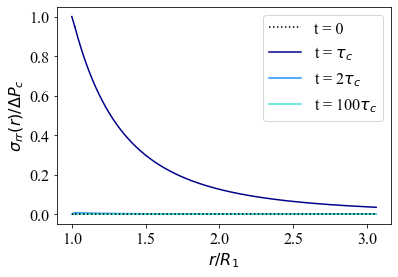
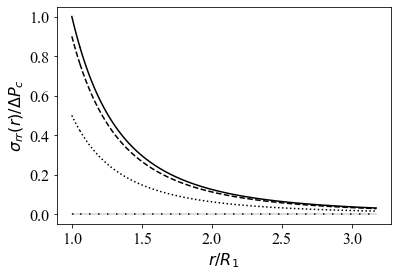
Plot Style
Changed the style of plots of u and sigmas. Now they are plotted at 5 different times including 0 and tau_c

diff --git a/graphical_outputs_definitions.py b/graphical_outputs_definitions.py
@@ -11,6 +11,7 @@ import matplotlib.pyplot as plt
 from matplotlib.colors import LogNorm
 from pylab import savefig
 import os
+from math import floor, log10
 
 
 import reservoir_definitions as rd
@@ -55,6 +56,24 @@ def savePDF2(path, name):
     os.chdir(newpath)
     savefig(name, bbox_inches='tight')
     os.chdir("../../")
+    
+# Define function for string formatting of scientific notation
+def sci_notation(num, decimal_digits=1, precision=None, exponent=None):
+    """
+    Returns a string representation of the scientific
+    notation of the given number formatted for use with
+    LaTeX or Mathtext, with specified number of significant
+    decimal digits and precision (number of decimal digits
+    to show). The exponent to be used can also be specified
+    explicitly.
+    """
+    if exponent is None:
+        exponent = int(floor(log10(abs(num))))
+    coeff = round(num / float(10**exponent), decimal_digits)
+    if precision is None:
+        precision = decimal_digits
+
+    return r"${0:.{2}f}\cdot10^{{{1:d}}}$".format(coeff, exponent, precision)
 
 
 #---------------------------------------------------------------------
@@ -86,12 +105,12 @@ def plotGraph1(t_c, p_c, R1, R2, RES, PC):
         
         # times at which we sample the stress/deformation fields for
         # graphical outputs
-        tFix_0 = 0
         tFix_1 = t_c
-        tFix_2 = t_c*2
-        tFix_inf = t_c*100
+        tFix_2 = t_c*1.11
+        tFix_3 = t_c*1.15
+        tFix_4 = t_c*1.2
 
-        time_list = [tFix_0, tFix_1, tFix_2, tFix_inf]
+        time_list = [tFix_1, tFix_2, tFix_3, tFix_4]
      
         # dictionnaries to store the valutes at each time
         u1 = {}
@@ -132,25 +151,27 @@ def plotGraph1(t_c, p_c, R1, R2, RES, PC):
                 sigma2_rr_val[time][i] = sigma2_rr[time].subs(r,r2_val[i])
                 sigma2_tt_val[time][i] = sigma2_tt[time].subs(r,r2_val[i])
        
-        #blue set
-        color_list = ['k:', 'darkblue', 'dodgerblue', 'turquoise']
-        #red set
-        #color_list = ['k:', 'saddlebrown', 'orangered', 'orange']
-        legend_list = ['t = 0', r't = $\tau_c$', r't = 2$\tau_c$', r't = 100$\tau_c$']
+        color_list = ['k', 'k', 'k', 'k']
+        linestylelist = ['solid', 'dashed', 'dotted', (0, (1, 5))]
+        
+        legend1 = r't = $\tau_c$ = ' + sci_notation(RES.t_c,1) + ' s'
+        legend2 = r't = 1.11*$\tau_c$ = ' + sci_notation(1.11*RES.t_c,1) + ' s'
+        legend3 = r't = 1.15*$\tau_c$ = ' + sci_notation(1.15*RES.t_c,1) + ' s'
+        legend4 = r't = 1.2*$\tau_c$ = ' + sci_notation(1.2*RES.t_c,1) + ' s'
+        legend_list = [legend1, legend2, legend3, legend4]
         
         # Graph of u(r,t)
         initGraph()
-        for (time, color, legend) in zip(time_list,color_list, legend_list) :
-            plt.plot(r1_val/R1, u1_val[time], color, label = legend)
-            if RES.isElastic == 1:
-                plt.plot(r2_val/R1, u2_val[time], color)
-        plt.plot(r1_val/R1, np.zeros(len(r1_val)), 'k:')
+        plt.plot(r1_val/R1, np.zeros(len(r1_val)), 'lightgrey', label = 't = 0')
         if RES.isElastic == 1:
-            plt.plot(r2_val/R1, np.zeros(len(r2_val)), 'k:')
-        plt.legend()
+            plt.plot(r2_val/R1, np.zeros(len(r2_val)), 'lightgrey')
+        for (time, color, linestyle, legend) in zip(time_list, color_list, linestylelist, legend_list) :
+            plt.plot(r1_val/R1, u1_val[time], color, linestyle=linestyle, label = legend)
+            if RES.isElastic == 1:
+                plt.plot(r2_val/R1, u2_val[time], color, linestyle=linestyle)
         plt.xlabel('$r/R_1$')
         plt.ylabel('$u(r)$ (m)')
-        plt.legend(loc='upper right')
+        plt.legend(loc='center left', bbox_to_anchor=(1, 0.5))
         #plt.xlim((1,4))
         #plt.ylim((0,60))
         if PC.save1 == 1:
@@ -159,17 +180,16 @@ def plotGraph1(t_c, p_c, R1, R2, RES, PC):
          
         # Graph of sigma_rr(r,t)
         initGraph()
-        for (time, color, legend) in zip(time_list,color_list, legend_list) :
-            plt.plot(r1_val/R1, abs(sigma1_rr_val[time])/p_c, color, label = legend)
-            if RES.isElastic == 1:
-                plt.plot(r2_val/R1, abs(sigma2_rr_val[time])/p_c, color)
-        plt.plot(r1_val/R1, np.zeros(len(r1_val)), 'k:')
+        plt.plot(r1_val/R1, np.zeros(len(r1_val)), 'lightgrey', label = 't = 0')
         if RES.isElastic == 1:
-            plt.plot(r2_val/R1, np.zeros(len(r2_val)), 'k:')
-        plt.legend()
+            plt.plot(r2_val/R1, np.zeros(len(r2_val)), 'lightgrey')
+        for (time, color, linestyle, legend) in zip(time_list, color_list, linestylelist, legend_list) :
+            plt.plot(r1_val/R1, abs(sigma1_rr_val[time])/p_c, color, linestyle=linestyle, label = legend)
+            if RES.isElastic == 1:
+                plt.plot(r2_val/R1, abs(sigma2_rr_val[time])/p_c, color, linestyle=linestyle)
         plt.xlabel('$r/R_1$')
         plt.ylabel(r'$\sigma_{rr}(r)/\Delta P_c$')
-        plt.legend(loc='upper right')
+        #plt.legend(loc='upper right')
         #plt.xlim((1,4))
         #plt.ylim((0,1.01))
         if PC.save1 == 1:
@@ -178,17 +198,16 @@ def plotGraph1(t_c, p_c, R1, R2, RES, PC):
        
         # Graph of sigma_tt(r,t) = sigma_pp(r,t)
         initGraph()
-        for (time, color, legend) in zip(time_list,color_list, legend_list) :
-            plt.plot(r1_val/R1, (sigma1_tt_val[time])/p_c, color, label = legend)
-            if RES.isElastic == 1:
-                plt.plot(r2_val/R1, (sigma2_tt_val[time])/p_c, color)
-        plt.plot(r1_val/R1, np.zeros(len(r1_val)), 'k:')
+        plt.plot(r1_val/R1, np.zeros(len(r1_val)), 'lightgrey', label = 't = 0')
         if RES.isElastic == 1:
-            plt.plot(r2_val/R1, np.zeros(len(r2_val)), 'k:')
-        plt.legend()
+            plt.plot(r2_val/R1, np.zeros(len(r2_val)), 'lightgrey')
+        for (time, color, linestyle, legend) in zip(time_list, color_list, linestylelist, legend_list) :
+            plt.plot(r1_val/R1, (sigma1_tt_val[time])/p_c, color, linestyle=linestyle, label = legend)
+            if RES.isElastic == 1:
+                plt.plot(r2_val/R1, (sigma2_tt_val[time])/p_c, color, linestyle=linestyle)
         plt.xlabel('$r/R_1$')
         plt.ylabel(r'$\sigma_{\theta\theta}(r)/\Delta P_c$ = $\sigma_{\phi\phi}(r)/\Delta P_c$')
-        plt.legend(loc='upper right')
+        #plt.legend(loc='upper right')
         #plt.xlim((1,4))
         #plt.ylim((-1.01,0.55))
         if PC.save1 == 1:
@@ -359,7 +378,7 @@ def plotGraph4(OUT, PC):
         ax.set_xscale('log')
         background = plt.pcolormesh(x, y, VeFix, cmap='RdYlBu_r', norm=LogNorm(vmin = 1e3, vmax = 1e10), shading='gouraud')
         contour_dashed = plt.contour(x, y, VeFix, norm=LogNorm(), colors='black', linestyles='dashed')
-        plt.clabel(contour_dashed, inline=True, fontsize=14, fmt= '%.2f')
+        plt.clabel(contour_dashed, inline=True, fontsize=14, fmt='%.1e')
         cbar=plt.colorbar(background)
         cbar.set_label(r"$V_{e}$ (m$^3$)", labelpad=-40, y=1.1, rotation=0)
         plt.title(u"(a) Erupted volume \n with fix wall")
@@ -376,7 +395,7 @@ def plotGraph4(OUT, PC):
         #plt.gca().invert_yaxis()
         background = plt.pcolormesh(x, y, VeFixFilter, cmap='RdYlBu_r', norm=LogNorm(vmin = 1e3, vmax = 1e10), shading='gouraud')
         contour_dashed = plt.contour(x, y, VeFixFilter, norm=LogNorm(), colors='black', linestyles='dashed')
-        plt.clabel(contour_dashed, inline=True, fontsize=14, fmt= '%.2f')
+        plt.clabel(contour_dashed, inline=True, fontsize=14, fmt='%.1e')
         cbar=plt.colorbar(background)
         cbar.set_label(r"$V_{e}$ (m$^3$)", labelpad=-40, y=1.1, rotation=0)
         plt.title(u"(b) Erupted volume with \n fix wall and viscoelastic filter")
@@ -394,7 +413,7 @@ def plotGraph4(OUT, PC):
         #plt.gca().invert_yaxis()
         background = plt.pcolormesh(x, y, VeDeform, cmap='RdYlBu_r', norm=LogNorm(vmin = 1e3, vmax = 1e10), shading='gouraud')
         contour_dashed = plt.contour(x, y, VeDeform, norm=LogNorm(), colors='black', linestyles='dashed')
-        plt.clabel(contour_dashed, inline=True, fontsize=14, fmt= '%.2f')
+        plt.clabel(contour_dashed, inline=True, fontsize=14, fmt='%.1e')
         cbar=plt.colorbar(background)
         cbar.set_label(r"$V_{ev}$ (m$^3$)", labelpad=-40, y=1.1, rotation=0)
         plt.title(u"(c) Erupted volume \n with viscoelastic deformation")

diff --git a/reservoir_main.py b/reservoir_main.py
@@ -20,14 +20,14 @@ import numpy as np
 # Choose between pure water or briny cryomagma and ice:
 # If you take into account impurities such as salts in the cryomagma and 
 # ices, select 1. If you consider pure water, select 0.
-salts = 0
+salts = 1
 
 # reservoir radius (m)
 # radius = 1905.46071796
-radius = 10e3
+radius = 500
 
 # reservoir depth (m) (< 5500m to stay in the elastic zone)
-depth = 10000
+depth = 2000
 
 """------------------------------------------------------------------'"""
 
@@ -86,14 +86,14 @@ print('tau = ', RES.tau/3600/24, ' days')
 """ graphical output? 0 = no, 1 = yes """
 PC.graph1 = 1
 """ save as PDF? 0 = no, 1 = yes """
-PC.save1 = 0
+PC.save1 = 1
 
 
 t = RES.t_c
 p = RES.deltaP_c
 R1 = RES.R1
 R2 = RES.R2
-# gd.plotGraph1(t, p, R1, R2, RES, PC)
+gd.plotGraph1(t, p, R1, R2, RES, PC)
 
 
 #---------------------------------------------------------------------------

diff --git a/reservoir_main_looped.py b/reservoir_main_looped.py
@@ -23,10 +23,10 @@ import numpy as np
 salts = 0
 
 #  servoir radii (m)
-r_val = np.logspace(1, 4, 31)
+r_val = np.logspace(1, 4, 61)
 
 # reservoir depth (m) (< 5500m to stay in the elastic zone)
-h_val = np.linspace(1000, 10000, 31)
+h_val = np.linspace(1000, 10000, 61)
 
 """------------------------------------------------------------------'"""
 
@@ -136,7 +136,7 @@ for depth in h_val:
 """ graphical output? 0 = no, 1 = yes """
 PC.graph3 = 1
 """ save as PDF? 0 = no, 1 = yes """
-PC.save3 = 0
+PC.save3 = 1
 
 gd.plotGraph3(OUT, PC)
 
@@ -148,7 +148,7 @@ gd.plotGraph3(OUT, PC)
 """ graphical output? 0 = no, 1 = yes """
 PC.graph4 = 1
 """ save as PDF? 0 = no, 1 = yes """
-PC.save4 = 0
+PC.save4 = 1
 
 gd.plotGraph4(OUT, PC)
 
